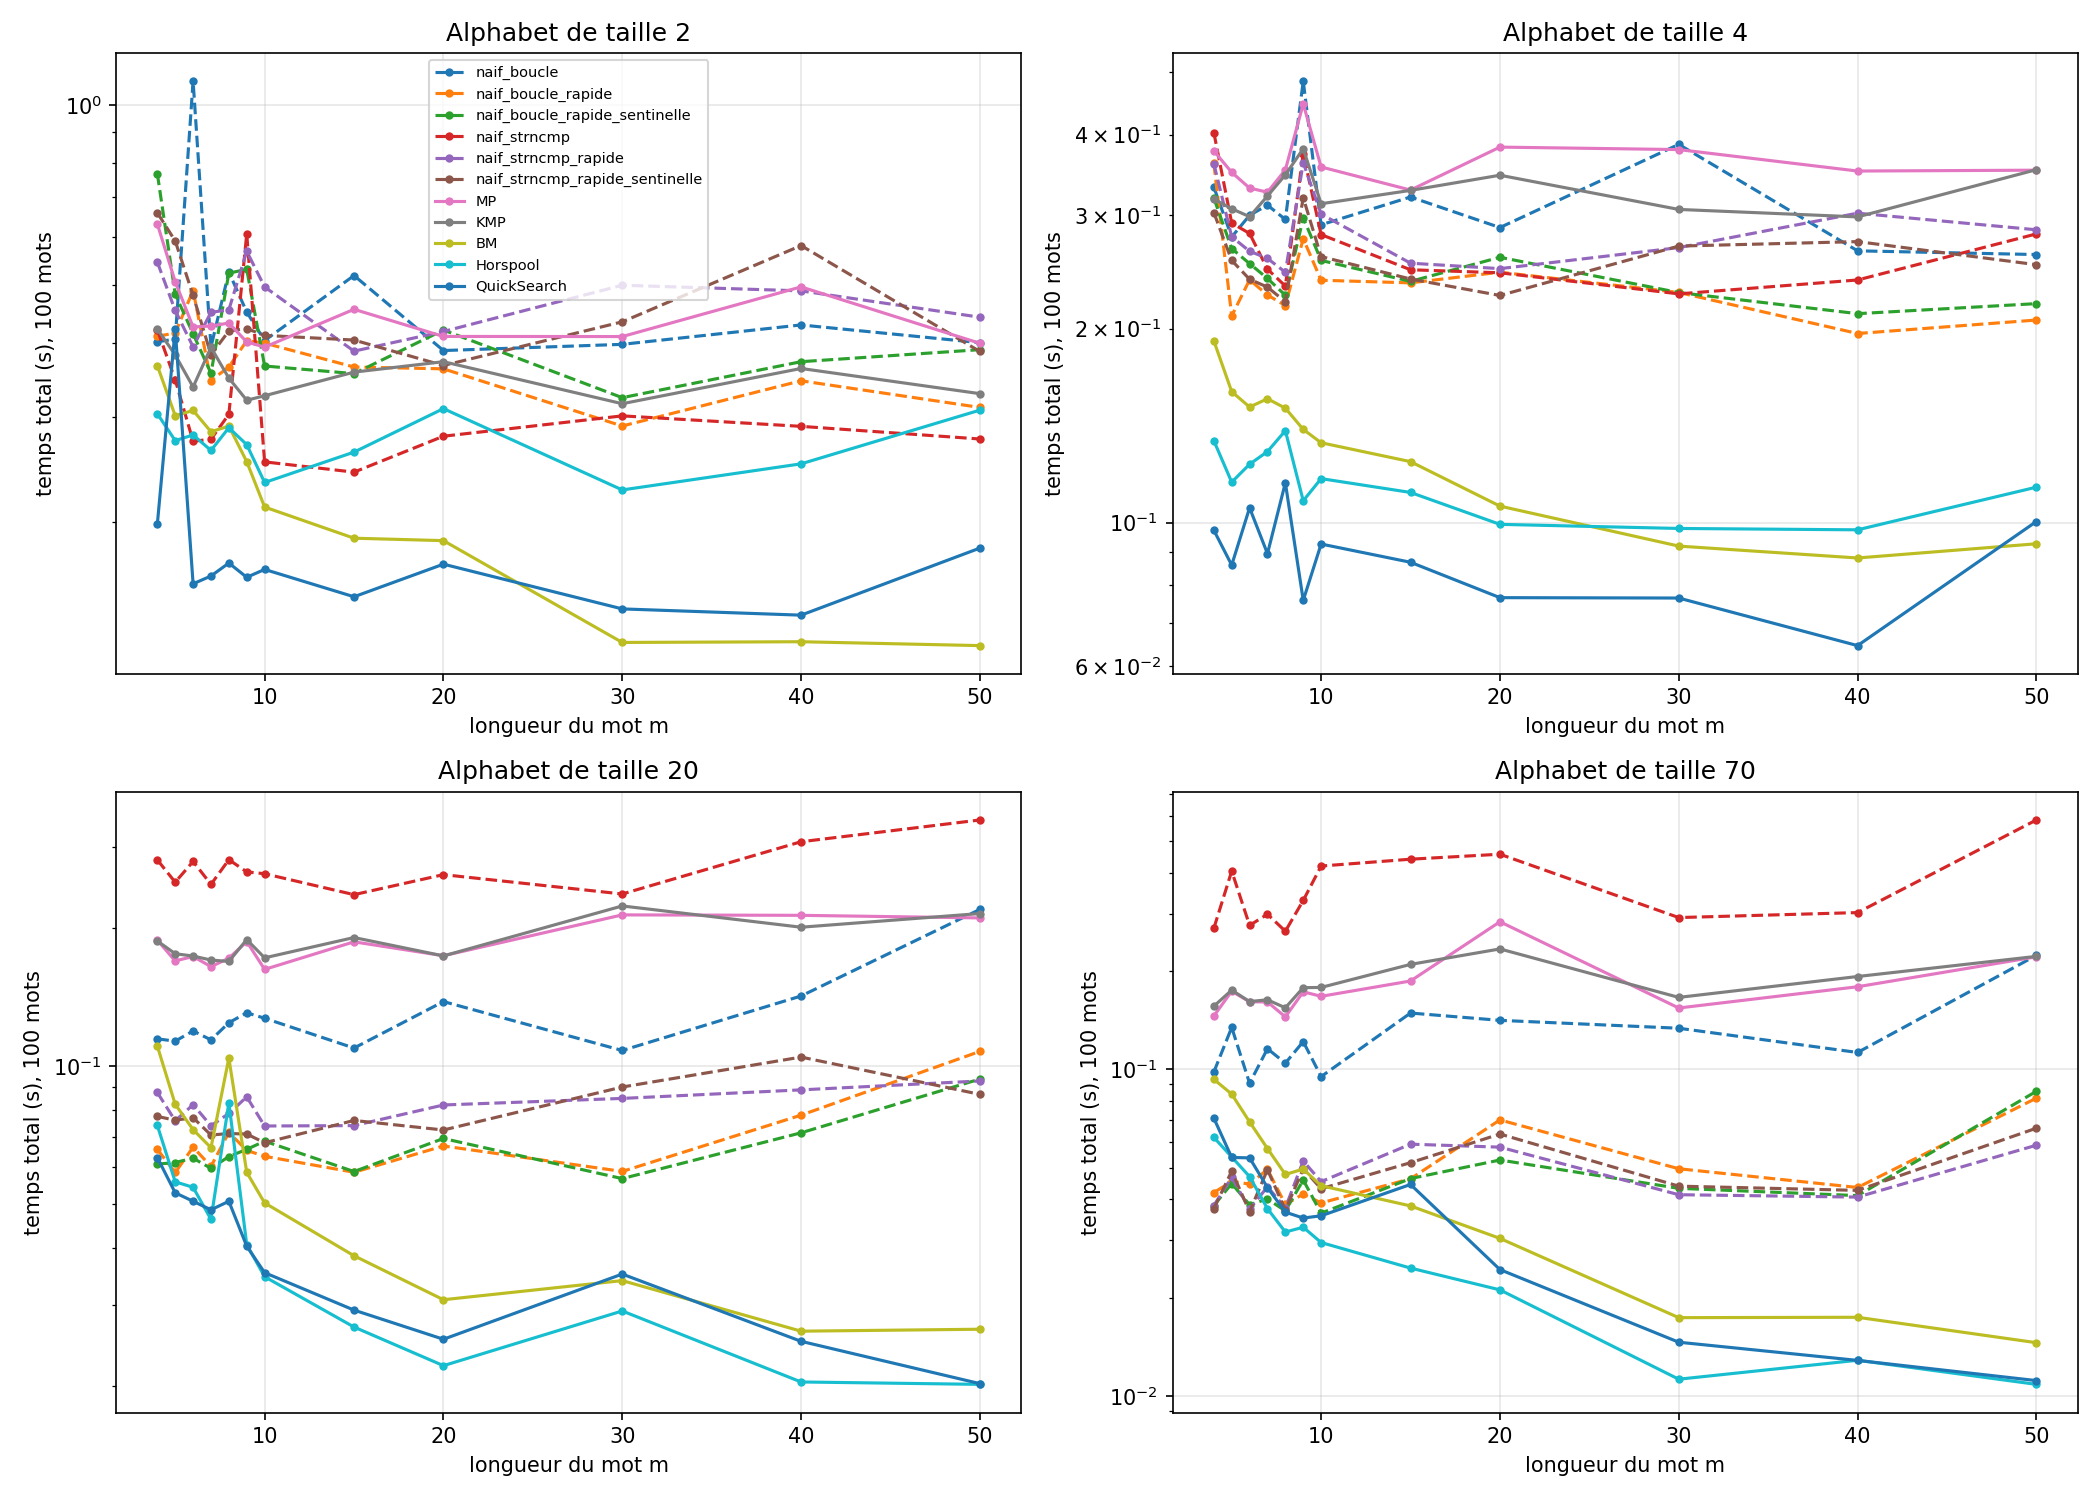
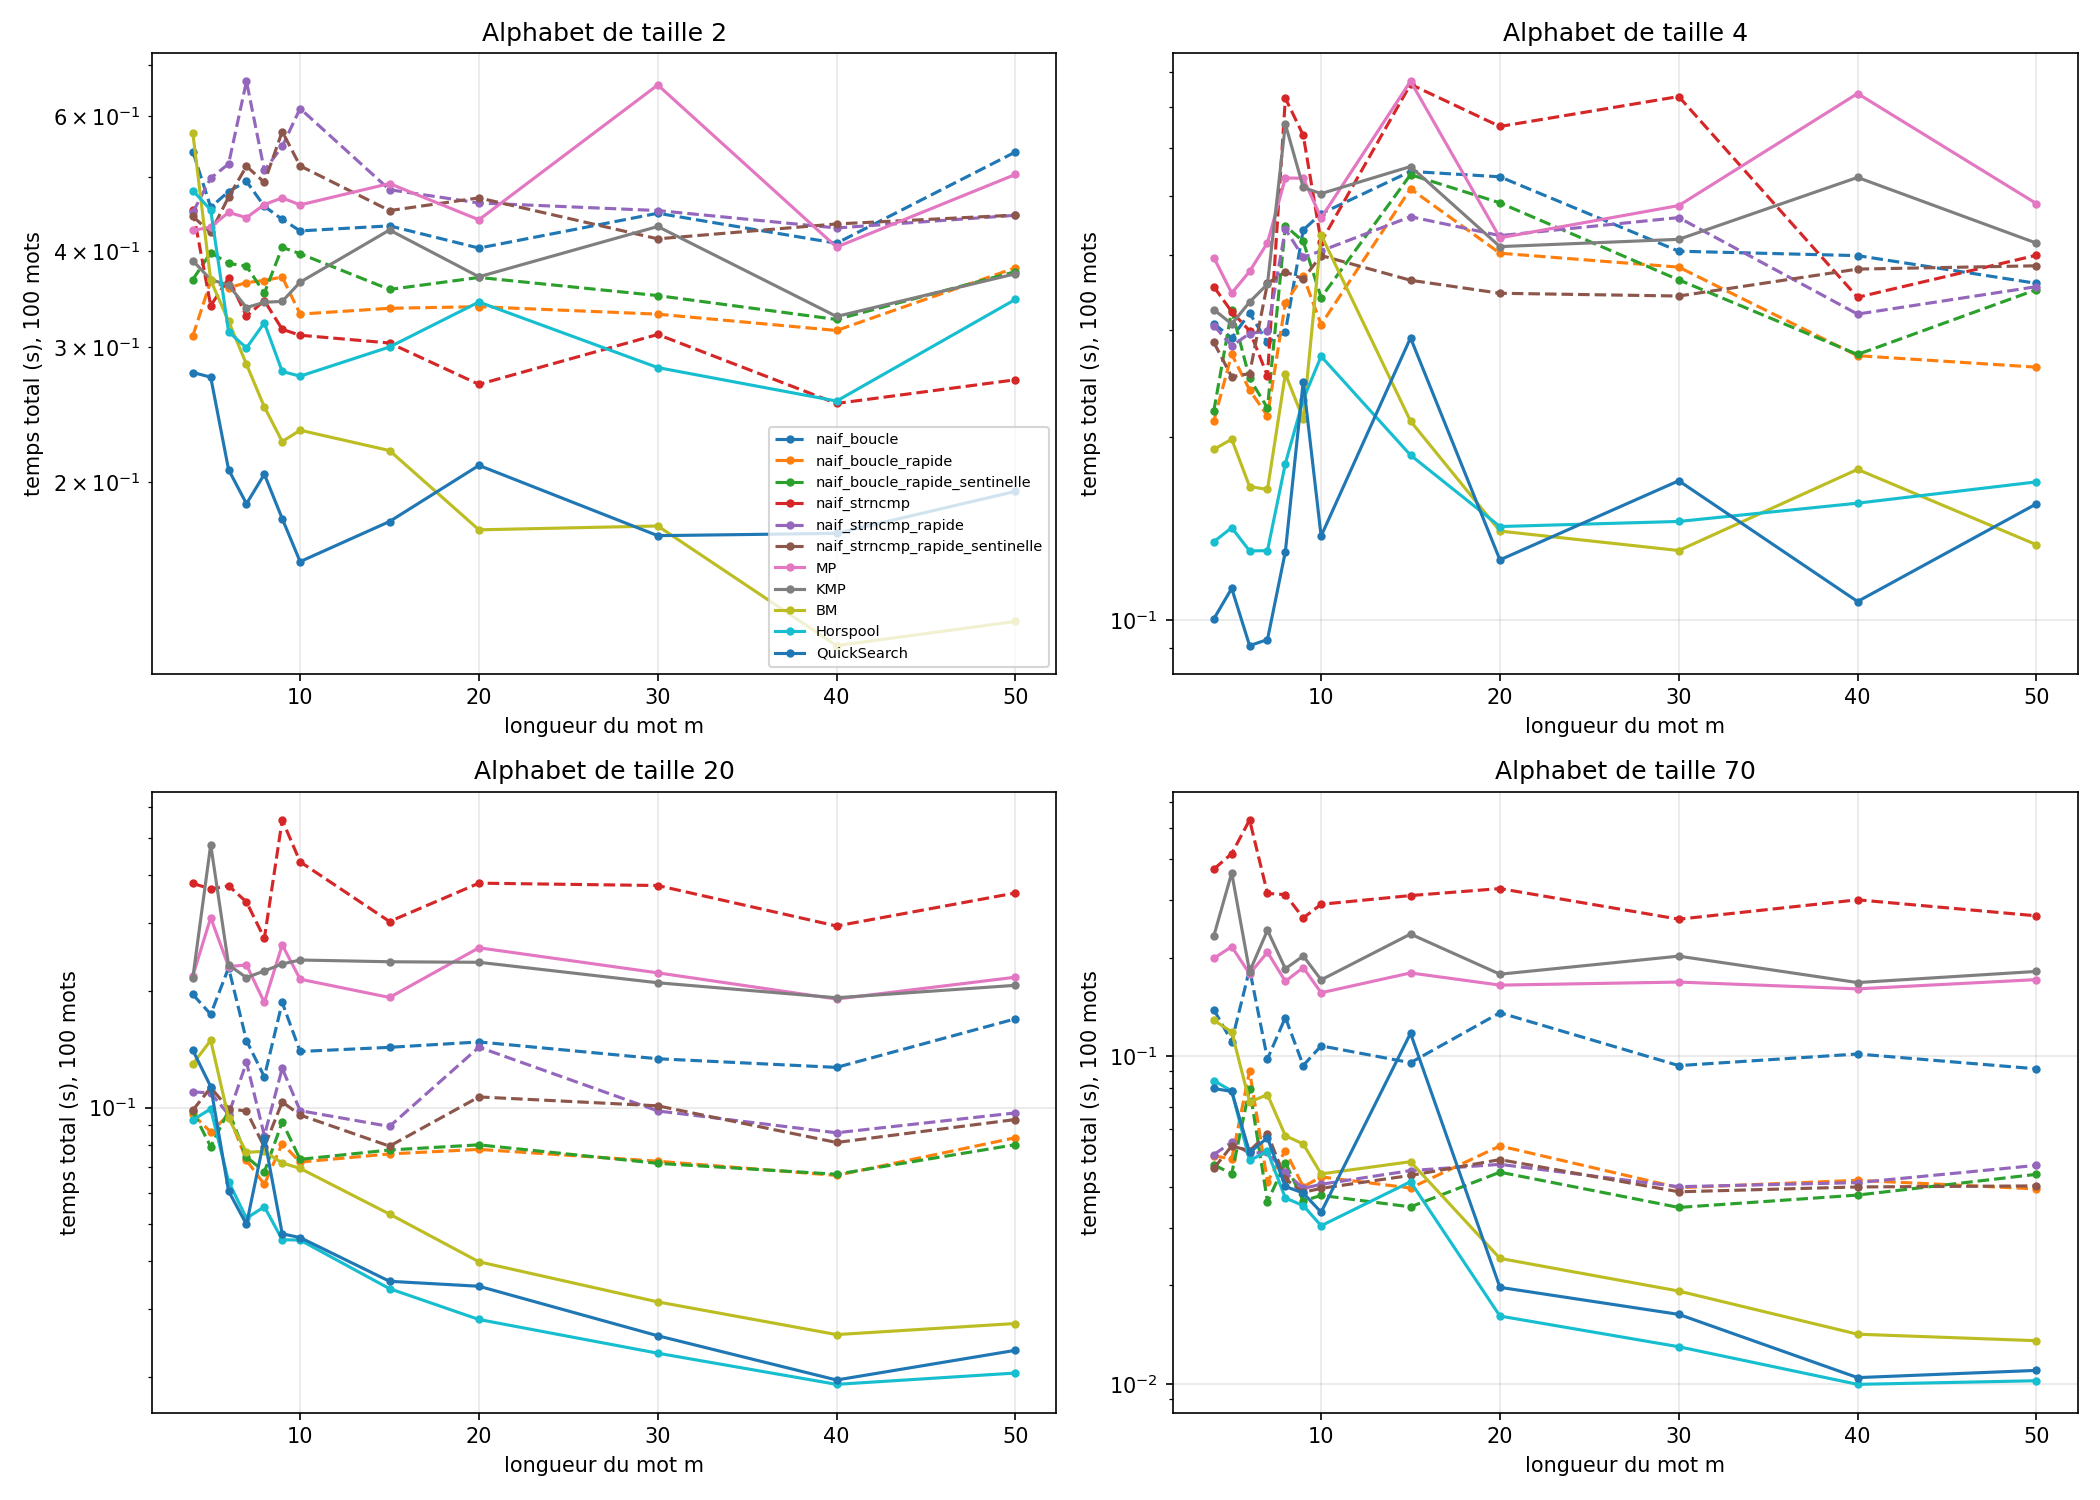
docs: embed benchmark curves in README

diff --git a/README.md b/README.md
@@ -44,6 +44,12 @@ l'expérience reproductible.
 
 ## Lecture du graphique
 
+![Comparaison des temps d'exécution des algorithmes selon la taille de
+l'alphabet et la longueur du mot](./courbes.png)
+
+*Figure 1 — Temps total de recherche pour les 100 mots générés, selon la
+taille de l'alphabet et la longueur du mot.*
+
 Chaque sous-graphique correspond à une taille d'alphabet. L'abscisse est la
 longueur du mot `m` et l'ordonnée est le temps total de recherche des
 100 mots. L'ordonnée est logarithmique : elle permet de comparer des temps
